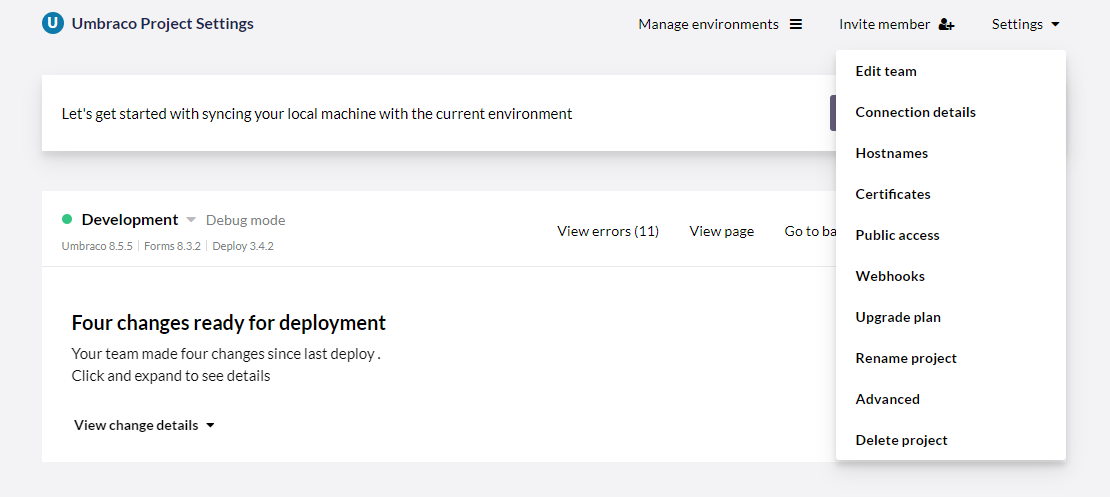
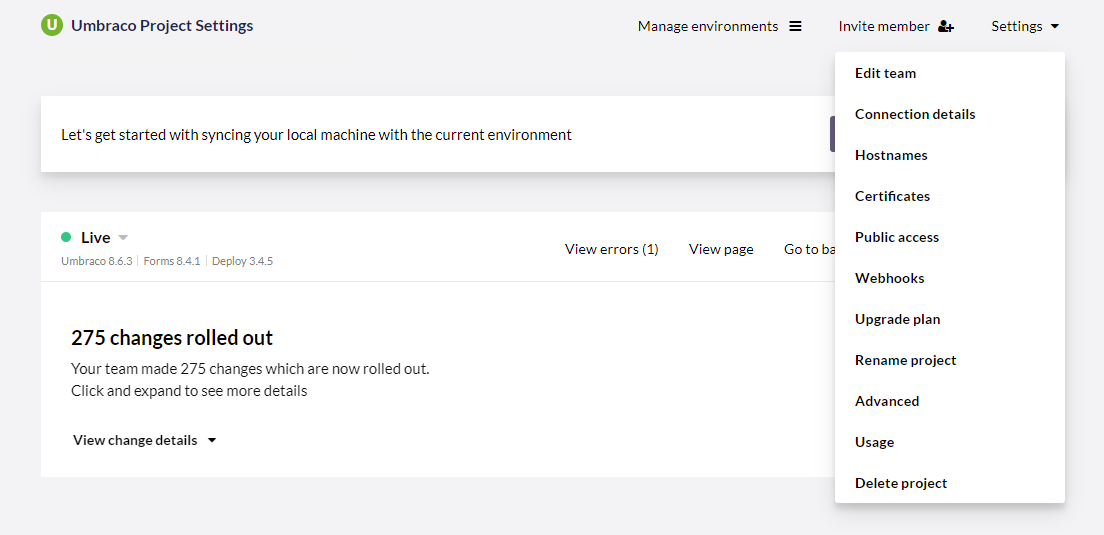
Created a new article for usage

diff --git a/Umbraco-Cloud/Set-Up/Usage/index.md b/Umbraco-Cloud/Set-Up/Usage/index.md
@@ -1,0 +1,21 @@
+---
+versionFrom: 7.0.0
+---
+
+# Usage on your Umbraco Cloud project
+
+In the Umbraco Cloud settings tab, we recently introduced a new setting called Usage.
+
+From here you can see your current usage of Content nodes, Custom hostnames and Media storeage and the usage limitations for your Umbraco Cloud project and the plan that it is on.
+
+![Usage on Cloud](images/Usage.png)
+
+## Usage limits
+
+On the image below you can see the Usage limitatons for the specific plans.
+
+![Usage limits on a starter plan](images/plan_limitations.png)
+
+On Umbraco Cloud you can always upgrade your project to a higher plan if you have reached the limit of what you are allowed on your project.
+
+You can see the prices for the different plans on Umbraco Cloud on our [website](https://umbraco.com/umbraco-cloud-pricing/) or when you are upgrading your plan.

diff --git a/Umbraco-Cloud/Set-Up/Project-settings/index.md b/Umbraco-Cloud/Set-Up/Project-settings/index.md
@@ -52,6 +52,10 @@ From the *Settings* menu you can upgrade your project to a standard or a Profess
 
 The option will not be available if you are already on the specific plan or if you are running in Trial mode.
 
+## [Usage](../Usage/)
+
+On your Umbraco Cloud project you now have the possibility from the *settings* menu to see the usage of content nodes, custom hostnames and media storage that your project is using and whether you are above or below the allowed amount for the plan that you are on.
+
 ## Advanced settings
 
 In the *Settings* menu you have the option to enable advanced settings for your project.
